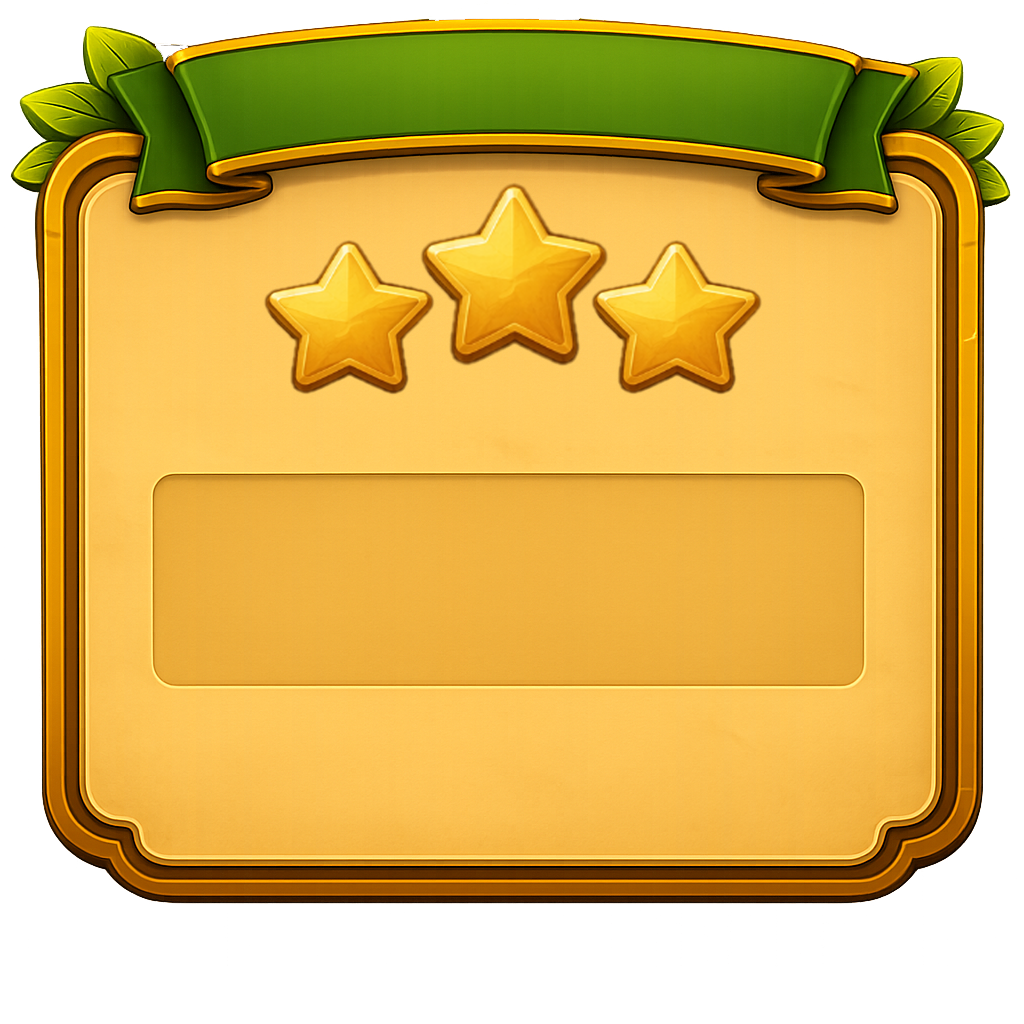
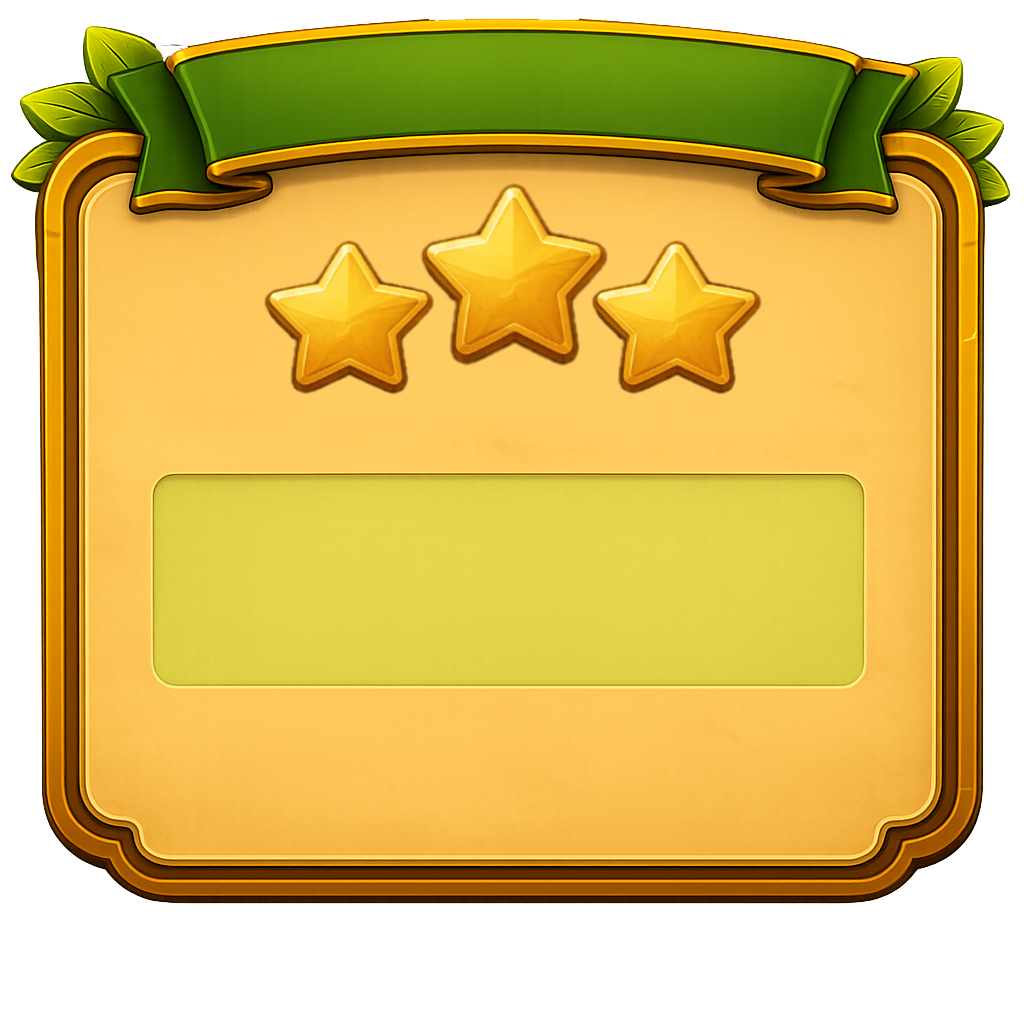
some fixes for win/lose panels

Changed region(s): [[0.125, 0.4375, 0.8438, 0.6875]]

diff --git a/Assets/Scripts/Framework/ScreenManagement/WinScreen.cs b/Assets/Scripts/Framework/ScreenManagement/WinScreen.cs
@@ -24,8 +24,8 @@ namespace Game
         public override void InitUI()
         {
             LevelScene levelScene = GameManager.Instance.CurrentLevel;
-            levelHeaderText.text = string.Format(levelHeaderFormat, GameManager.Instance.CurrentLevelIndex + 1);
-            levelWinText.text = levelScene.winText;
+            if(levelHeaderText) levelHeaderText.text = string.Format(levelHeaderFormat, GameManager.Instance.CurrentLevelIndex + 1);
+            if(levelWinText) levelWinText.text = levelScene.winText;
 
             // Remove old rewards
             foreach (var reward in rewards)